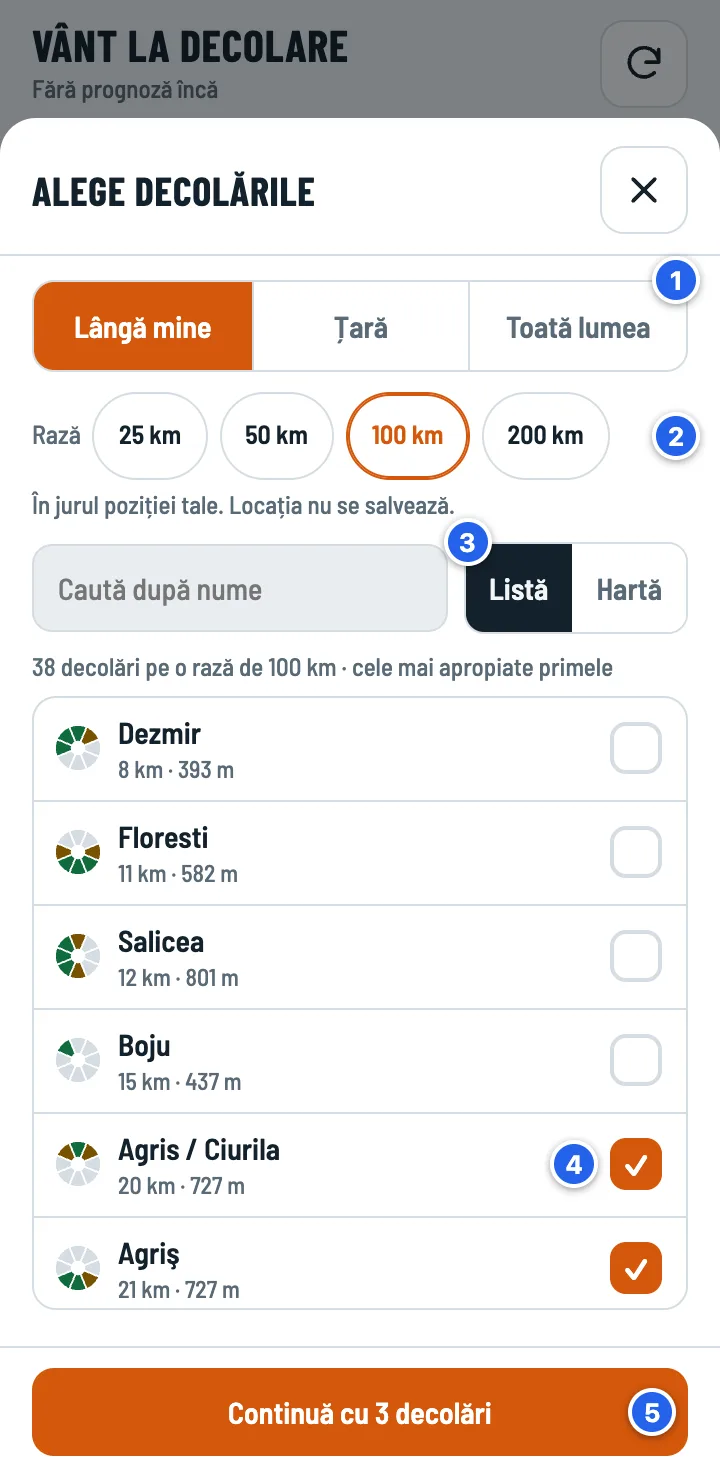
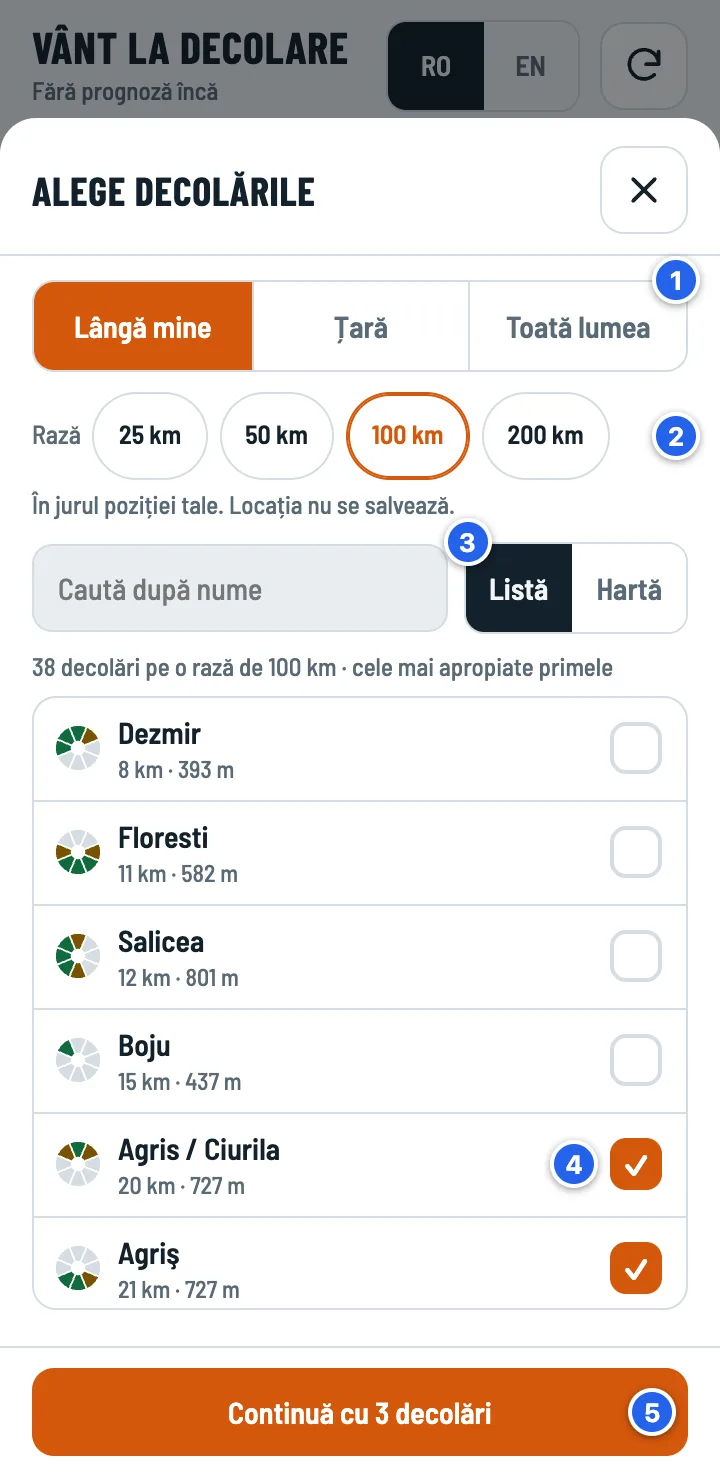
Test: ui-r2 a6e9719

diff --git a/index.html b/index.html
@@ -49,11 +49,12 @@ button,input,textarea{font:inherit;color:inherit}
 button{cursor:pointer}
 :focus-visible{outline:2px solid var(--accent);outline-offset:2px}
 [hidden]{display:none!important}
-.app{display:flex;flex-direction:column;height:100%;max-width:1100px;margin:0 auto;padding-bottom:calc(64px + env(safe-area-inset-bottom,0px))}
+.app{display:flex;flex-direction:column;height:100%;max-width:1100px;margin:0 auto;padding-bottom:calc(86px + env(safe-area-inset-bottom,0px))}
 
 /* Bara de sus */
 .top{display:flex;align-items:center;gap:10px;padding:10px 16px 6px}
 .brand{flex:1;min-width:0}
+.toplang a{padding:0 11px;font-size:14px}
 .brand h1{margin:0;font:700 22px/1 var(--f-display);letter-spacing:.02em;text-transform:uppercase}
 .brand p{margin:3px 0 0;color:var(--muted);font-size:12.5px;white-space:nowrap;overflow:hidden;text-overflow:ellipsis}
 .iconbtn{display:grid;place-items:center;width:44px;height:44px;border-radius:12px;border:1px solid var(--line);background:var(--surface)}
@@ -261,6 +262,7 @@ dialog.tall .sheet .body{flex:1;min-height:0;display:flex;flex-direction:column}
 #pkMap{position:absolute;inset:0;background:var(--sunk)}
 .pk-note{margin-top:12px;padding:12px;border-radius:12px;background:var(--sunk);font-size:14px}
 .pk-note b{display:block;margin-bottom:4px}
+.onb-lang{display:flex;justify-content:center;margin:2px 0 6px}
 .onb-hero{display:flex;justify-content:center;margin:8px 0 18px}
 .onb-hero svg{width:120px;height:120px}
 .onb-lead{margin:0;font-size:16px;color:var(--ink)}
@@ -278,11 +280,16 @@ details.custom summary{min-height:44px;display:flex;align-items:center;font-weig
 .linkbtn{border:0;background:none;padding:0;color:var(--accent);font-weight:700;text-decoration:underline;min-height:44px}
 .site .nodir{display:inline-block}
 /* UI-05: navigarea de jos, cu etichete. Pe ecrane late devine o bară plutitoare, centrată. */
-.tabbar{position:fixed;left:0;right:0;bottom:0;z-index:5;display:grid;grid-template-columns:repeat(5,1fr);background:var(--surface);border-top:1px solid var(--line);padding-bottom:env(safe-area-inset-bottom,0px)}
-.tabbar button{display:flex;flex-direction:column;align-items:center;justify-content:center;gap:3px;min-height:60px;border:0;background:none;color:var(--muted);font:600 12.5px/1 var(--f-ui)}
+/* Jos: bara cu butoane, iar sub ea, în afara ei, Confidențialitate și Termeni cu litere mici. */
+.bottom{position:fixed;left:0;right:0;bottom:0;z-index:5;background:var(--bg);padding-bottom:env(safe-area-inset-bottom,0px)}
+.tabbar{display:grid;grid-template-columns:repeat(5,1fr);background:var(--surface);border-top:1px solid var(--line);border-bottom:1px solid var(--line)}
+.tabbar button{display:flex;flex-direction:column;align-items:center;justify-content:center;gap:3px;min-height:56px;border:0;background:none;color:var(--muted);font:600 12.5px/1 var(--f-ui)}
 .tabbar svg{width:23px;height:23px;fill:none;stroke:currentColor;stroke-width:2;stroke-linecap:round;stroke-linejoin:round}
 .tabbar button[aria-current="page"]{color:var(--accent)}
-@media (min-width: 900px){ .tabbar{left:50%;right:auto;transform:translateX(-50%);width:520px;bottom:12px;border:1px solid var(--line);border-radius:16px;box-shadow:0 6px 24px rgb(0 0 0 / .12)} }
+.legal{display:flex;justify-content:center;gap:14px}
+.legal a{display:inline-flex;align-items:center;min-height:24px;padding:0 6px;font-size:11.5px;color:var(--muted);text-decoration:none}
+@media (min-width: 900px){ .bottom{left:50%;right:auto;transform:translateX(-50%);width:520px;bottom:6px;background:none}
+  .tabbar{border:1px solid var(--line);border-radius:16px;box-shadow:0 6px 24px rgb(0 0 0 / .12)} }
 /* UI-03: comutatorul Pe ore / Pe scurt și vederea pe scurt */
 .viewbar{display:flex;gap:8px;align-items:center;flex-wrap:wrap;padding:0 16px 8px}
 /* Doar tabla se micșorează când ecranul e scund; restul își păstrează înălțimea (altfel banda de zile se taie). */
@@ -308,11 +315,11 @@ details.hfbox summary{min-height:48px;display:flex;align-items:center;gap:8px;pa
 details.hfbox .hf-in{padding:0 12px 12px}
 .toast{display:flex;align-items:center;width:max-content;max-width:calc(100vw - 32px)}
 .toast button{margin-left:12px;border:0;background:none;color:var(--accent);font-weight:700;min-height:36px;padding:0 4px}
-.toast{position:fixed;left:50%;bottom:calc(76px + env(safe-area-inset-bottom,0px));transform:translateX(-50%);background:var(--ink);color:var(--bg);padding:10px 16px;border-radius:12px;font-weight:600;z-index:10}
+.toast{position:fixed;left:50%;bottom:calc(96px + env(safe-area-inset-bottom,0px));transform:translateX(-50%);background:var(--ink);color:var(--bg);padding:10px 16px;border-radius:12px;font-weight:600;z-index:10}
 </style>
 </head>
 <body>
-<div style="height:20px;display:flex;align-items:center;justify-content:center;background:#6d28d9;color:#fff;font:700 11px/1 system-ui,sans-serif;letter-spacing:.05em">TEST · ui-r2 b5128fc</div>
+<div style="height:20px;display:flex;align-items:center;justify-content:center;background:#6d28d9;color:#fff;font:700 11px/1 system-ui,sans-serif;letter-spacing:.05em">TEST · ui-r2 a6e9719</div>
 <style>.app{height:calc(100% - 20px)}</style>
 <div class="app">
   <div class="top">
@@ -320,6 +327,7 @@ details.hfbox .hf-in{padding:0 12px 12px}
       <h1>Vânt la Decolare</h1>
       <p id="status">Se încarcă prognoza…</p>
     </div>
+    <div class="seg2 lang toplang" id="topLang" role="group" aria-label="Limba"><a href="?lang=ro" data-lang="ro" lang="ro" aria-label="Română">RO</a><a href="?lang=en" data-lang="en" lang="en" aria-label="English">EN</a></div>
     <button class="iconbtn" id="refresh" aria-label="Reîmprospătează prognoza"><svg viewBox="0 0 24 24"><path d="M20 11a8 8 0 1 0-2.3 5.7"/><path d="M20 4v7h-7"/></svg></button>
   </div>
   <div class="banner" id="banner" hidden></div>
@@ -340,6 +348,7 @@ details.hfbox .hf-in{padding:0 12px 12px}
   </div>
 </div>
 
+<div class="bottom">
 <nav class="tabbar" aria-label="Navigare">
   <button type="button" id="navBoard" aria-current="page"><svg viewBox="0 0 24 24"><path d="M3 9h18M3 15h18M9 3v18"/><rect x="3" y="3" width="18" height="18" rx="3"/></svg><span>Prognoză</span></button>
   <button type="button" id="log"><svg viewBox="0 0 24 24"><path d="M6 3h11a2 2 0 0 1 2 2v14a2 2 0 0 1-2 2H6z"/><path d="M9 3v18"/><path d="M12.5 8h3.5M12.5 12h3.5"/></svg><span>Jurnal</span></button>
@@ -347,6 +356,8 @@ details.hfbox .hf-in{padding:0 12px 12px}
   <button type="button" id="settingsOpen"><svg viewBox="0 0 24 24"><path d="M4 7h10M18 7h2M4 17h4M12 17h8"/><circle cx="16" cy="7" r="2"/><circle cx="10" cy="17" r="2"/></svg><span>Setări</span></button>
   <button type="button" id="helpTab"><svg viewBox="0 0 24 24"><circle cx="12" cy="12" r="9"/><path d="M9.6 9.3a2.5 2.5 0 1 1 3.4 2.4c-.6.3-1 .8-1 1.5v.5"/><path d="M12 17.3v.1"/></svg><span>Ajutor</span></button>
 </nav>
+<div class="legal"><a href="confidentialitate.html">Confidențialitate</a><a href="termeni.html">Termeni</a></div>
+</div>
 
 <dialog id="dlgCell"><div class="sheet">
   <header><h2 id="cellTitle"></h2><button class="iconbtn" data-close aria-label="Închide"><svg viewBox="0 0 24 24"><path d="M6 6l12 12M18 6L6 18"/></svg></button></header>
@@ -521,9 +532,9 @@ function translateStatic(){
     for (const a of document.querySelectorAll('a[href^="ghid.html"]')) a.href = a.getAttribute('href').replace('ghid.html', GUIDE);
   }
   $('#ver').textContent = t('Versiunea {v}', {v: VERSION});
-  for (const a of document.querySelectorAll('#langSeg a')) a.setAttribute('aria-current', String(a.dataset.lang === LANG));
+  for (const a of document.querySelectorAll('#langSeg a, #topLang a')) a.setAttribute('aria-current', String(a.dataset.lang === LANG));
 }
-const VERSION = '5b63f25';
+const VERSION = '6347895';
 const SKY_ICONS = {"sun":[{"d":"M12 7.5 A4.5 4.5 0 1 0 12 16.5 A4.5 4.5 0 1 0 12 7.5 Z","r":"sun","f":1},{"d":"M12 2 V4.2 M12 19.8 V22 M2 12 H4.2 M19.8 12 H22 M4.9 4.9 L6.5 6.5 M17.5 17.5 L19.1 19.1 M4.9 19.1 L6.5 17.5 M17.5 6.5 L19.1 4.9","r":"sun"}],"moon":[{"d":"M19.5 14.6 A7.8 7.8 0 1 1 9.4 4.5 A6.2 6.2 0 0 0 19.5 14.6 Z","r":"ink"}],"partly":[{"d":"M6.03 10.77 A3.5 3.5 0 1 1 12 8.3","r":"sun"},{"d":"M8.5 2.6 V3.9 M2.6 8.3 H3.9 M4.3 4.1 L5.2 5 M12.7 4.1 L11.8 5","r":"sun"},{"d":"M9.5 20 H17.7 A3.4 3.4 0 0 0 18.2 13.23 A4.6 4.6 0 0 0 9.3 12.3 A3.85 3.85 0 0 0 9.5 20 Z","r":"ink"}],"cloud":[{"d":"M7 19 H17.2 A4.3 4.3 0 0 0 17.8 10.44 A5.8 5.8 0 0 0 6.6 9.9 A4.6 4.6 0 0 0 7 19 Z","r":"ink"}],"overcast":[{"d":"M5.2 14.2 A3.6 3.6 0 0 1 6.4 7.3 A5 5 0 0 1 15.6 6.4","r":"ink"},{"d":"M8 20.5 H17.5 A3.6 3.6 0 0 0 18 13.33 A5 5 0 0 0 8.2 12.4 A4.05 4.05 0 0 0 8 20.5 Z","r":"ink"}],"cumulus":[{"d":"M3.5 19 H20.5","r":"ink"},{"d":"M5.5 19 A3 3 0 0 1 6.5 13.2 A3.6 3.6 0 0 1 11.5 8.5 A4 4 0 0 1 18 12 A3.6 3.6 0 0 1 18.5 19","r":"ink"},{"d":"M20 3.6 A1.9 1.9 0 1 0 20 7.4 A1.9 1.9 0 1 0 20 3.6 Z","r":"sun","f":1}],"cirrus":[{"d":"M2.5 11 C6.5 8 10 13 15 10 M4.5 15.5 C8.5 13 12.5 17.5 20.5 14 M2.5 20 C5.5 18.5 8.5 21 12.5 19.5","r":"ink"},{"d":"M18 3.6 A2.3 2.3 0 1 0 18 8.2 A2.3 2.3 0 1 0 18 3.6 Z","r":"sun","f":1}],"fog":[{"d":"M4 7 H20 M6 11 H18 M4 15 H20 M7 19 H17","r":"ink"}],"rain":[{"d":"M7 15 H17.2 A4.3 4.3 0 0 0 17.8 6.44 A5.8 5.8 0 0 0 6.6 5.9 A4.6 4.6 0 0 0 7 15 Z","r":"ink"},{"d":"M8.5 18 L7.5 21 M12.5 18 L11.5 21 M16.5 18 L15.5 21","r":"water"}],"thunder":[{"d":"M7 15 H17.2 A4.3 4.3 0 0 0 17.8 6.44 A5.8 5.8 0 0 0 6.6 5.9 A4.6 4.6 0 0 0 7 15 Z","r":"ink"},{"d":"M13 14.5 L10.5 18.5 H13.5 L11.5 22.5","r":"sun"}],"snow":[{"d":"M7 15 H17.2 A4.3 4.3 0 0 0 17.8 6.44 A5.8 5.8 0 0 0 6.6 5.9 A4.6 4.6 0 0 0 7 15 Z","r":"ink"},{"d":"M8 18.5 V18.6 M12 19.5 V19.6 M16 18.5 V18.6 M10 22 V22.1 M14 22 V22.1","r":"water"}]};
 let HOLFUY = [];   // stațiile Holfuy din toată lumea, din holfuy.json (încărcat la pornire)
 const GOOGLE_CLIENT_ID = "649701687476-dkeevrquqrkupso4aeupqbou5lrfkrkl.apps.googleusercontent.com";
@@ -1819,7 +1830,10 @@ function renderOnb(){
   $('#onbTitle').textContent = [t('Bun venit'), t('Alege decolările'), t('Ce limite ai?')][onb.step];
   if (pick.mapObj && onb.step !== 1){ pick.mapObj.remove(); pick.mapObj = null; }
   if (onb.step === 0){
-    body.innerHTML = `<div class="onb-hero">${roseSvg([0,1,2,2,1,0,0,0], 'rose')}</div>
+    // Limba se alege chiar aici: Setările sunt în spatele acestui ecran. Linkul reîncarcă pagina în limba aleasă și o ține minte.
+    body.innerHTML = `<div class="onb-lang"><span class="seg2 lang" role="group" aria-label="${t('Limba')}">${[['ro', 'Română'], ['en', 'English']].map(([l, n]) =>
+        `<a href="?lang=${l}" data-lang="${l}" lang="${l}" aria-current="${l === LANG}">${n}</a>`).join('')}</span></div>
+      <div class="onb-hero">${roseSvg([0,1,2,2,1,0,0,0], 'rose')}</div>
       <p class="onb-lead">${t('Vântul pe ore la decolările tale, colorat după orientarea fiecăreia. Gratuit, fără cont.')}</p>
       <div class="stack">
         <button class="btn primary" type="button" data-onb="go" data-zone="near">${t('📍 Decolări lângă mine')}</button>

diff --git a/ghid.html b/ghid.html
@@ -115,8 +115,9 @@ footer{margin-top:44px;padding-top:20px;border-top:1px solid var(--line);color:v
     <h2><span class="n">1</span>Prima pornire</h2>
     <p>La prima deschidere alegi decolările care te interesează. Nu ai nevoie de cont.</p>
     <div class="step">
-      <a class="shot" href="img/guide/ro/start.webp"><img src="img/guide/ro/start.webp" width="720" height="1480" loading="lazy" decoding="async" alt="Ecranul de bun venit, cu butoanele Decolări lângă mine, Alege pe hartă și Alege țara"></a>
+      <a class="shot" href="img/guide/ro/start.webp"><img src="img/guide/ro/start.webp" width="720" height="1480" loading="lazy" decoding="async" alt="Ecranul de bun venit, cu alegerea limbii și butoanele Decolări lângă mine, Alege pe hartă și Alege țara"></a>
       <ol class="marks">
+        <li><b>Limba</b>: română sau engleză. O poți schimba oricând: sus, pe ecranul principal (<b>RO / EN</b>), sau din <b>Setări</b>.</li>
         <li><b>Decolări lângă mine</b>: decolările din jurul tău, cele mai apropiate primele. Telefonul îți cere permisiunea pentru locație; poziția nu se salvează și nu pleacă nicăieri.</li>
         <li><b>Alege pe hartă</b>: aceleași decolări, pe hartă.</li>
         <li><b>Alege țara</b>, dacă nu vrei să dai locația sau zbori în altă parte.</li>
@@ -155,7 +156,8 @@ footer{margin-top:44px;padding-top:20px;border-top:1px solid var(--line);color:v
         <li><b>Ora curentă.</b> Azi, tabla începe cu ora curentă; orele trecute rămân la stânga, estompate. Glisează orizontal pentru celelalte ore. În altă zi, tabla începe de la prima oră favorabilă.</li>
         <li><b>O oră la o decolare.</b> Atinge-o ca să vezi <a href="#hour">de ce are culoarea asta</a>.</li>
         <li><b>↻</b> descarcă din nou prognoza; sus scrie când a fost actualizată. Prognoza se reîmprospătează și singură când deschizi sau revii în aplicație, dacă e mai veche de 30 de minute.</li>
-        <li>Navigarea: <b>Prognoză</b> (tabla), <b>Jurnal</b>, <b>Situri</b>, <b>Setări</b> și <b>Ajutor</b>: pe scurt, cum citești tabla, plus acest ghid.</li>
+        <li><b>RO / EN</b>: limba aplicației, oricând.</li>
+        <li>Navigarea: <b>Prognoză</b> (tabla), <b>Jurnal</b>, <b>Situri</b>, <b>Setări</b> și <b>Ajutor</b>: pe scurt, cum citești tabla, plus acest ghid. Dedesubt, cu litere mici: <a href="confidentialitate.html">Confidențialitate</a> și <a href="termeni.html">Termeni</a>.</li>
       </ol>
     </div>
   </section>

diff --git a/guide.html b/guide.html
@@ -115,8 +115,9 @@ footer{margin-top:44px;padding-top:20px;border-top:1px solid var(--line);color:v
     <h2><span class="n">1</span>First start</h2>
     <p>The first time you open the app, you pick the takeoffs you care about. No account needed.</p>
     <div class="step">
-      <a class="shot" href="img/guide/en/start.webp"><img src="img/guide/en/start.webp" width="720" height="1480" loading="lazy" decoding="async" alt="The welcome screen, with the buttons Takeoffs near me, Pick on the map and Pick a country"></a>
+      <a class="shot" href="img/guide/en/start.webp"><img src="img/guide/en/start.webp" width="720" height="1480" loading="lazy" decoding="async" alt="The welcome screen, with the language switch and the buttons Takeoffs near me, Pick on the map and Pick a country"></a>
       <ol class="marks">
+        <li><b>Language</b>: Romanian or English. You can change it any time: at the top of the main screen (<b>RO / EN</b>) or in <b>Settings</b>.</li>
         <li><b>Takeoffs near me</b>: the takeoffs around you, nearest first. Your phone asks for location permission; your position is not stored and not sent anywhere.</li>
         <li><b>Pick on the map</b>: the same takeoffs, on a map.</li>
         <li><b>Pick a country</b>, if you'd rather not share your location or you fly somewhere else.</li>
@@ -155,7 +156,8 @@ footer{margin-top:44px;padding-top:20px;border-top:1px solid var(--line);color:v
         <li><b>The current hour.</b> Today, the board starts at the current hour; past hours stay on the left, faded. Swipe sideways for the other hours. On other days, the board starts at the first favourable hour.</li>
         <li><b>One hour at one takeoff.</b> Tap it to see <a href="#hour">why it has this colour</a>.</li>
         <li><b>↻</b> downloads the forecast again; the line at the top says when it was updated. The forecast also refreshes by itself when you open or return to the app, if it is older than 30 minutes.</li>
-        <li>Navigation: <b>Forecast</b> (the board), <b>Log</b>, <b>Sites</b>, <b>Settings</b> and <b>Help</b>: how to read the board in short, plus this guide.</li>
+        <li><b>RO / EN</b>: the app language, any time.</li>
+        <li>Navigation: <b>Forecast</b> (the board), <b>Log</b>, <b>Sites</b>, <b>Settings</b> and <b>Help</b>: how to read the board in short, plus this guide. Below them, in small print: <a href="privacy.html">Privacy</a> and <a href="terms.html">Terms</a>.</li>
       </ol>
     </div>
   </section>
